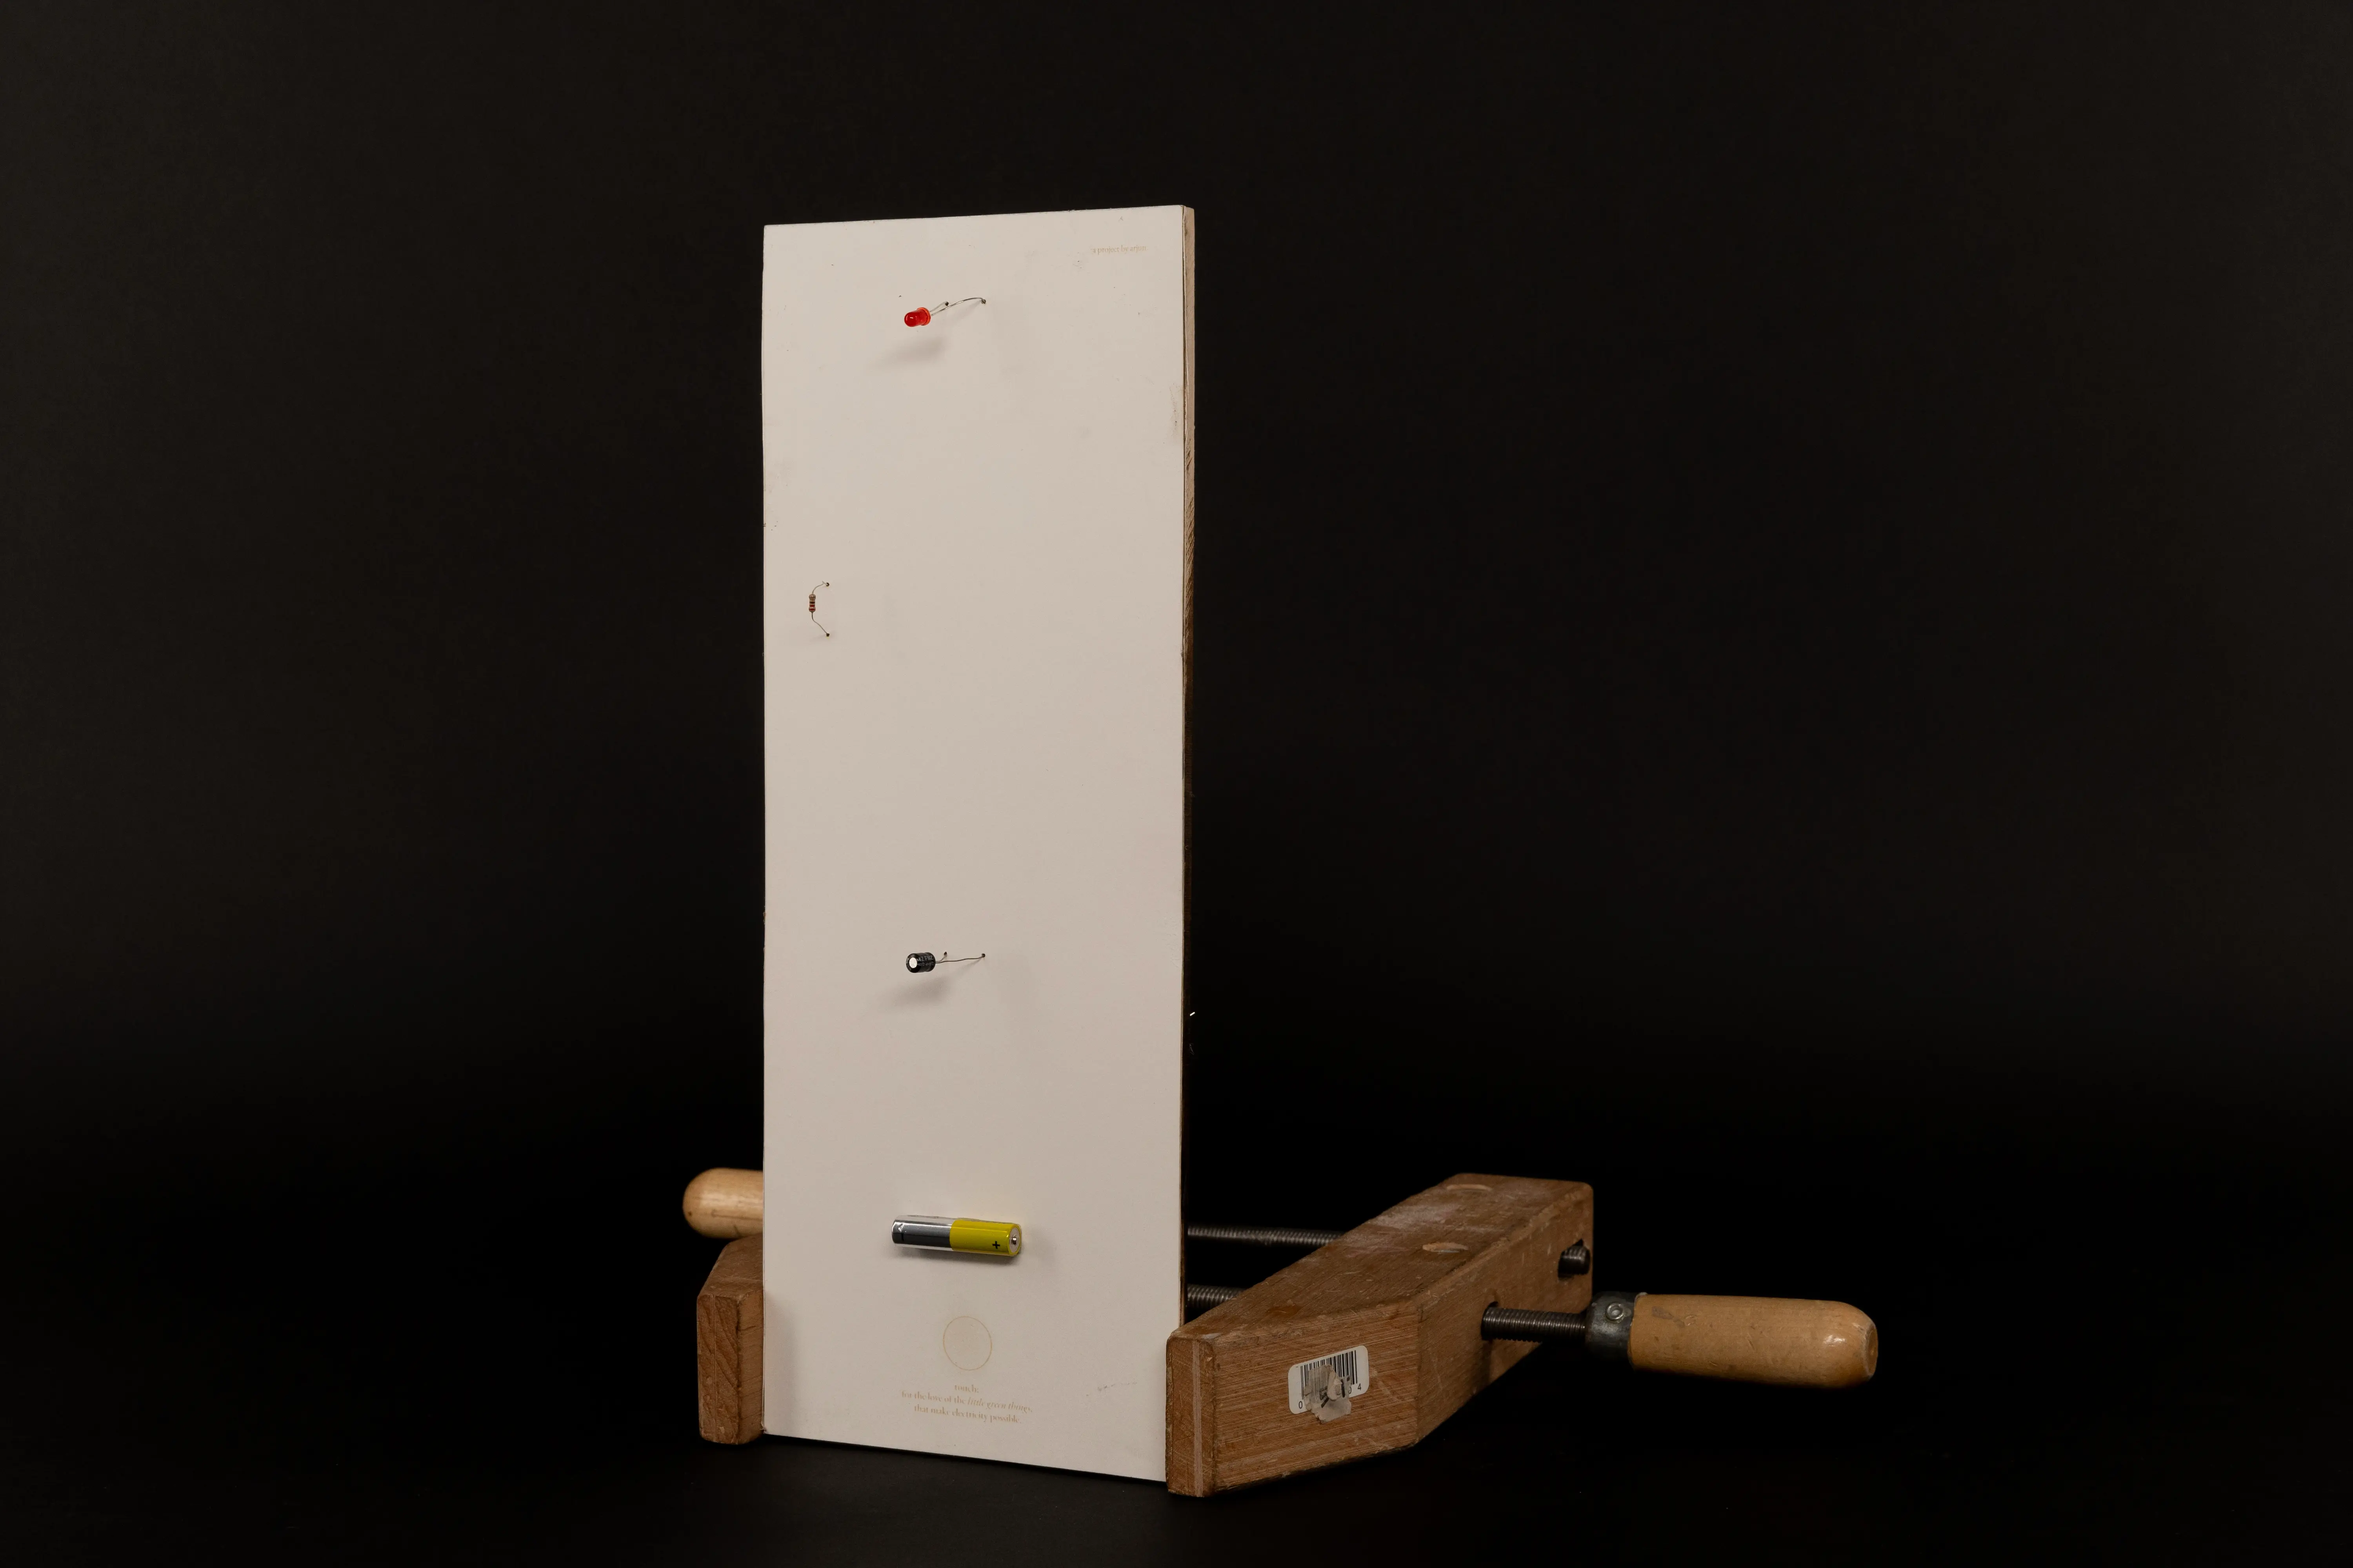
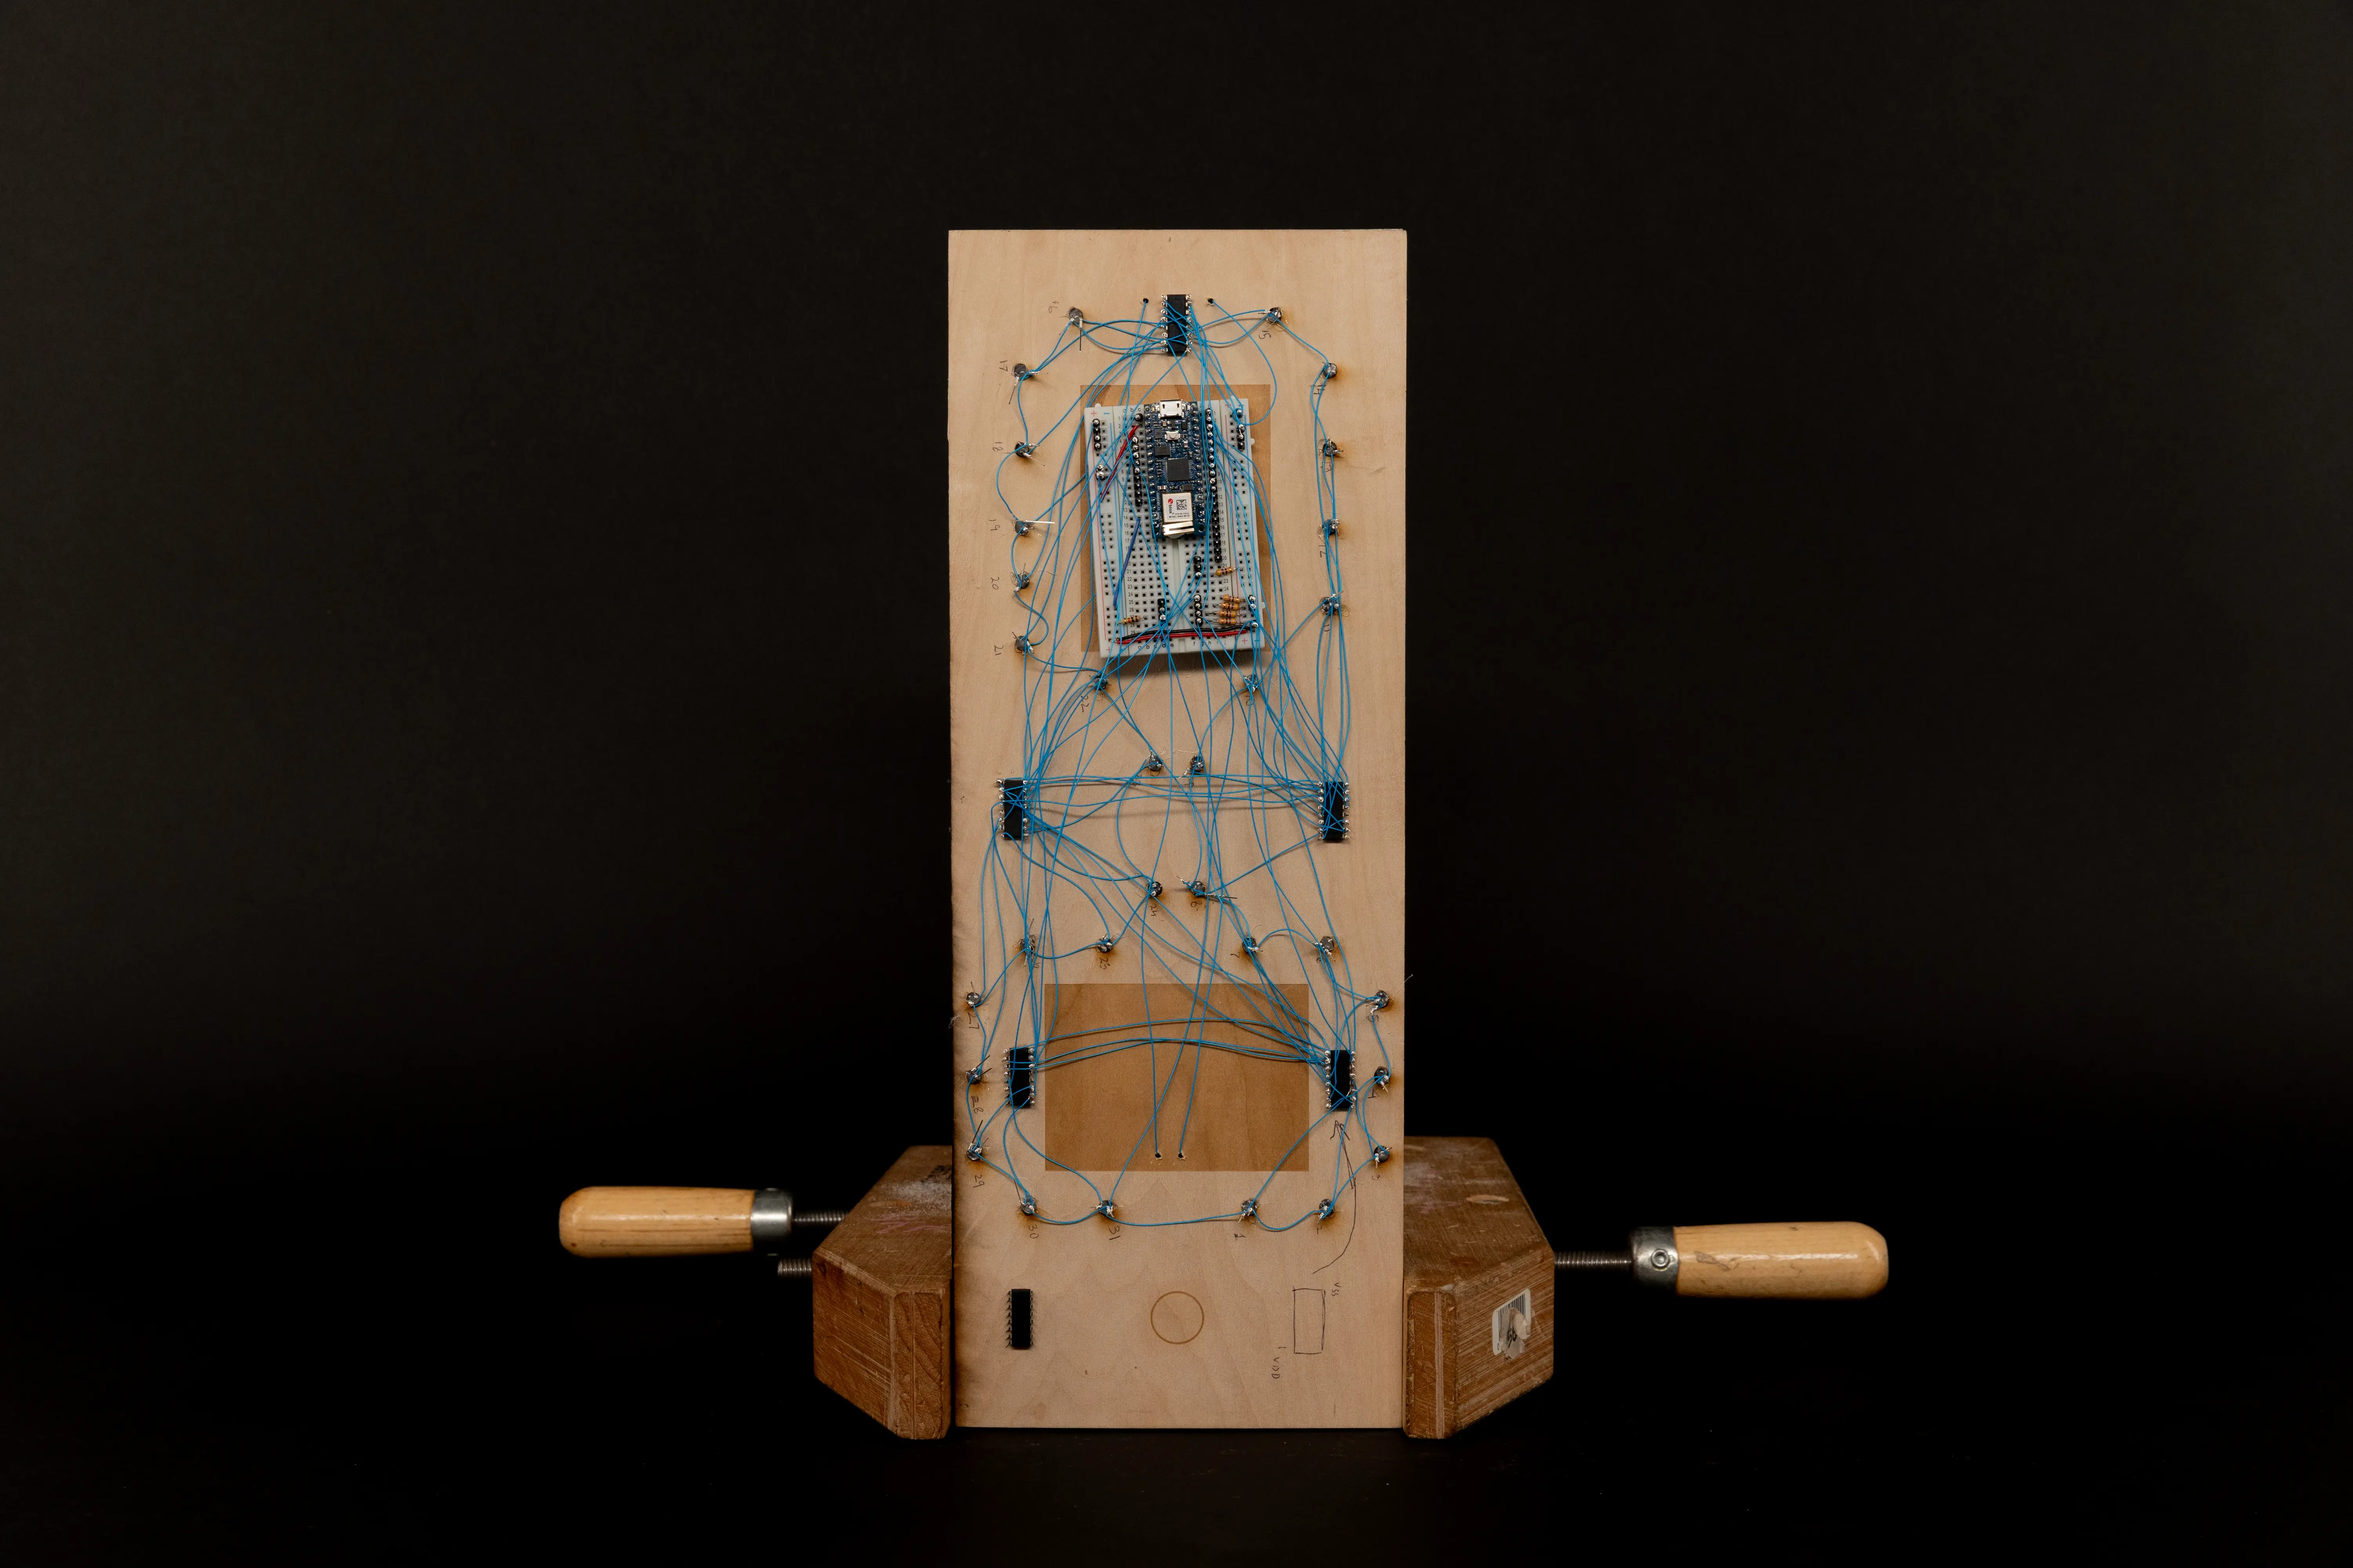
add electrons project.

Changed region(s): [[0.2182, 0.125, 0.8103, 1.0]]

diff --git a/projects/2025_little-green-things/page.html b/projects/2025_little-green-things/page.html
@@ -40,13 +40,13 @@
       </blockquote>
 
       <p>
-        when tom asked us to make a simple interactive system with physical controls for his introductory class, i couldn't shake away dahiya's words. today, we frequently interact with electricity — in-fact, we consume 24,398,000,000,000,000 watt-hours of electrical-energy every year<sup><a href="#footnotes">1</a></sup> — and, yet, there is a lot that we don't understand about how it works<sup><a href="#footnotes">2</a></sup
+        when <a href="https://tigoe.com/" target="_blank">tom</a> asked us to make a simple interactive system with physical controls for his <a href="https://itp.nyu.edu/physcomp/" target="_blank">introductory class</a>, i couldn't shake away dahiya's words. today, we frequently interact with electricity — in-fact, we consume 24,398,000,000,000,000 watt-hours of electrical-energy every year<sup><a href="#footnotes">1</a></sup> — and, yet, there is a lot that we don't understand about it<sup><a href="#footnotes">2</a></sup
         >.
       </p>
 
       <p>
-        as i dug deeper to understand how electricity works, tom redirected me to kenn amdahl's book: <em><a href="https://www.goodreads.com/book/show/10796575-there-are-no-electrons" target="_blank">there are no electrons</a></em
-        >. he writes (while attempting to explain what moves between wires):
+        as i dug deeper to understand how electricity <em>actually</em> works, tom redirected me to kenn amdahl's book: <em><a href="https://www.goodreads.com/book/show/10796575-there-are-no-electrons" target="_blank">there are no electrons</a></em
+        >. in it, while attempting to explain what moves between wires, he writes:
       </p>
 
       <blockquote>
@@ -55,9 +55,7 @@
           That’s right. Little Greenies. It’s not electrons at all. Electrons are a myth, a superstition. They don’t make sense, they’re boring, and they’ve never been proved. Shoot, I’ve never seen an electron, have you? Of course not. No one has. Sure, the electron theory seems to work a lot of the time, but so did the Flat Earth Theory. The theories of Aristotle, Newton and Euclid appeared to work pretty well, too, for a few hundred years. Now they seem childish. All because bold and adventurous thinkers like you and me were willing to consider alternatives. Elegant and innovative alternatives, like The Greenie Theory.
         </p>
       </blockquote>
-      <p>
-        i wanted to communicate this magic — continuous, laborious work happening around us, by electrons (or little green things), to achieve 'simple' tasks like lighting up an <a href = "https://en.wikipedia.org/wiki/Light-emitting_diode" target = "_blank">led</a>.
-      </p>
+      <p>inspired & amused, i decided to communicate this magic — continuous, laborious work happening all around us, by electrons (or little green things) — to achieve 'simple' tasks like lighting up an <a href="https://en.wikipedia.org/wiki/Light-emitting_diode" target="_blank">led</a>.</p>
     </div>
 
     <div class="full-width-container">
@@ -68,14 +66,38 @@
       <figcaption>video demo.</figcaption>
     </div>
 
-    <hr id = "separator">
+    <hr id="separator" />
 
-    <div class = "text-container">
+    <div class="text-container">
       <h1>making:</h1>
-      <p></p>
+      <p>the front (or visible) panel is a thin white mounting board, with four basic electronic-components stuck on it — a battery, capacitor, resistor & 3mm-led.</p>
+      <figure>
+        <img src="/projects/2025_little-green-things/front.webp" />
+      </figure>
+
+      <figure>
+        <img src="/projects/2025_little-green-things/details-1.webp" />
+      </figure>
+
+      <p>the electrons (or little green things) that move are actually 37-leds, mounted on a piece of basswood, that are individually pulsed via a microcontroller using five <a href="https://en.wikipedia.org/wiki/Multiplexer" target="_blank">multiplexers</a> & <a href="https://en.wikipedia.org/wiki/Bit_banging" target="_blank">bit-banging</a>.</p>
+
+      <figure>
+        <img src="/projects/2025_little-green-things/1.webp" />
+        <figcaption>back. instead of soldering the components, i decided to wire-wrap each of them (suggestion-credit: <a href="https://www.ccfrost.com/" target="_blank">cody frost</a>).</figcaption>
+      </figure>
     </div>
 
-    <hr id="separator"></div>
+    <div class="full-width-container">
+      <img src="/projects/2025_little-green-things/5.webp" />
+      <figcaption>originally meant to be displayed flat, i had to improvise and mount it on a jorgensen clamp, because i miswired the button (which is why the circuit has to be closed from the back by connecting the micontroller-pins via my body).</figcaption>
+    </div>
+
+    <div class="full-width-container">
+      <img src="/projects/2025_little-green-things/3.webp" />
+      <figcaption>close-up of the back panel.</figcaption>
+    </div>
+
+    <hr id="separator" />
 
     <div class="text-container" id="footnotes">
       <blockquote>
